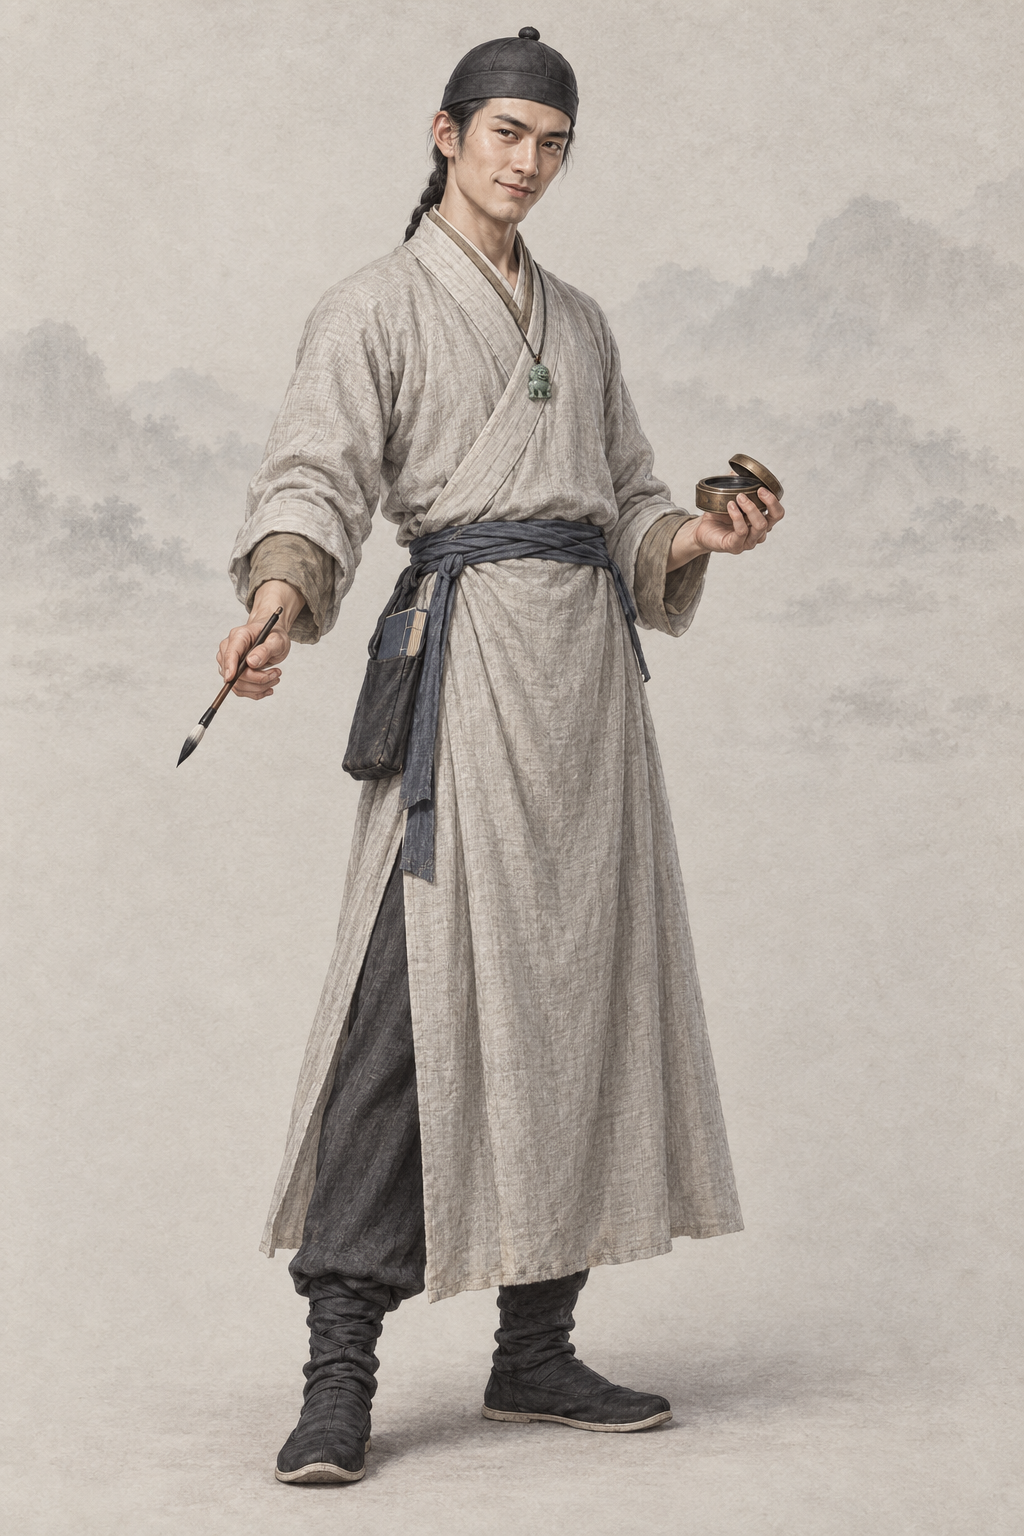
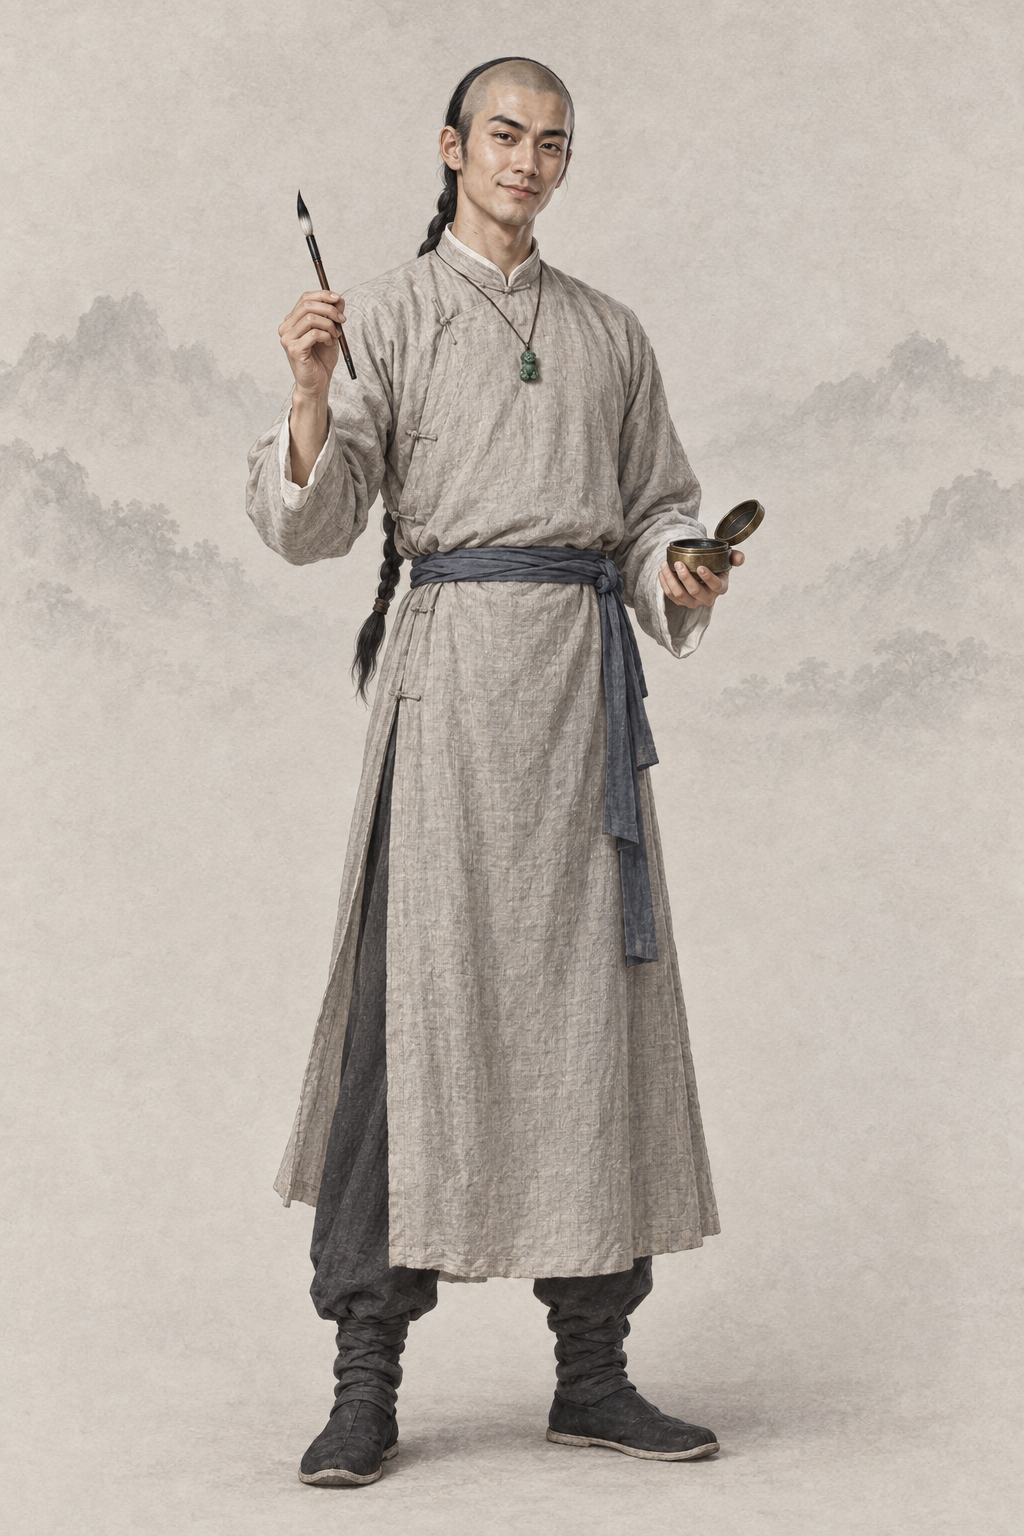
assets(character): por_npc_yuanguannan__ch11_youth_scholar_base 袁冠南（codex · AR-32 文字 + 基线）
本人无可用剧照或可靠游戏头像，只用文字与两张同性别基线重出；提示词写回、frontmatter 加 classic_ref。

diff --git a/assets/default/prompts/characters/ch11-yuanyang/npc_yuanguannan.md b/assets/default/prompts/characters/ch11-yuanyang/npc_yuanguannan.md
@@ -13,14 +13,37 @@ references:
   use: 已实际查看的项目男性画风参考，仅取水墨笔触、低饱和设色、暖浅灰纸底与左上柔光；基线当前candidate，按作者本轮授权使用且不更改审批，不继承萧峰的旧脸、年龄体型、裹巾衣装或密集摄影布纹。
 status: redo
 redo_reason: "脸是与程墨、鲁忱等同款的偶像化俊男模板，缺「长脸俊目、剑眉斜飞」的书生机智辨识度；服饰与笔墨道具设计保留，改脸去 AI 味。"
+codex_prompt_rev: 2026-10-02
 reference_upload:
 - assets/default/baseline/character/male/ref_npc_linghuchong__ch05_base01.png
-codex_prompt_rev: 2026-10-02
+- assets/default/baseline/character/male/ref_npc_xiaofeng__ch01_base01.png
+classic_ref: "无（作者 10-02 指定鸳鸯刀用《金庸群侠传》头像；游戏里没有可靠的袁冠南头像，只用文字与基线）"
 ---
 
 # 袁冠南 · 《鸳鸯刀》（ch11）
 
 ## Gemini 提示词
+
+> 2026-10-02 AR-32 重出（8 号出图员，codex exec · image_gen）：本人没有可用的经典剧照或可靠游戏头像，只用文字与两张同性别画风基线（缩小版 JPEG，放在最后上传）；按原著与设定重写人物描写，去 AI 味、禁止幼态。上一版保留在下一节作历史。
+
+```text
+生成一张 2:3 竖幅全身人物立绘：单人、单一视角、完整全身——头顶、双手、双脚和手中器物的两端都在画面内，四周留出自然空白；人物站姿自然，身体基本朝向正面，头部端正（不歪头、不仰不俯），镜头平视。
+【参考图】随提示词上传的两张参考图都是本项目的立绘画风基线：画风、用色、光线、质感和暖浅灰纸底加淡水墨背景以它们为准；它们只管画风，不取长相、年龄、发型、服饰和姿势。人物的长相和造型完全按下面的文字来画。
+【画风】写实手绘古风人物插画，与本项目写实武侠角色立绘同一画风，像功力深厚的画师用细腻笔触画出的真实人物。手绘插画质感，不是 CG 渲染：不要过度光滑的皮肤、完美对称的五官、塑料高光、过度锐利的发丝；保留自然的笔触和细微不完美。皮肤有真实质感——细小毛孔、细纹、晒痕和自然的左右不对称，不磨皮、不油亮；头发是一缕缕自然的发丝和少量碎发；布料看得出经纬纹理、厚薄和自然垂坠的褶皱，带穿用过的轻微旧化，但完整不破烂；整体设色低饱和、沉稳；柔和的自然光从左上方照来，明暗过渡自然，不打舞台光、轮廓光或美颜柔光。不是照片，不是三维渲染，不是动漫或游戏 CG，也不是油画（没有厚涂笔触和画布纹理）。
+【背景】不透明的暖浅灰色纸底，只在远处有极淡的水墨远山和薄雾，大面积留白；人物与背景明暗分明、轮廓边缘干净完整（后续要自动抠图），水墨和纸纹只在背景里，不侵入人物和衣服；脚下只有很淡的一点接触阴影。
+【人物】袁冠南，金庸《鸳鸯刀》的男主角，袁氏遗孤，会武功的青年书生；正处在用笔墨和口才戏弄强敌的那一段，还没学夫妻刀法（清代，乾隆初年）。
+【年龄与体态】二十二三岁的成年男子，身形修长清瘦但肩背挺直，有练过武的筋骨。
+【经典造型】风趣机智的青年书生侠客：清式长衫、一手毛笔一手小铜墨盒，剑眉斜飞、眼带狡黠笑意；英俊潇洒，书卷气里透着侠气。
+【面容】长脸俊目：二十二三岁的年轻面孔，脸型偏长、轮廓清爽、下颌线利落，皮肤紧致干净（没有中年人的皱纹）；两道浓黑的剑眉斜飞入鬓；眼睛细长明亮、眼神机灵，带着狡黠的笑意；鼻梁高挺；嘴角上扬、似笑非笑，透着书生的风趣和自信；肤色是干净的浅麦色。英俊潇洒、让人一看就有好感的青年书生，不是偶像小生的模板脸，也不显老。
+【发式】清代男子发式：前额和头顶前半部剃净、露出淡淡青色的头皮（干净哑光，不要油亮反光），后脑头发编成一条乌黑粗长的辫子垂在背后；不戴帽子。
+【服饰】浅米灰色细布长衫（清式：圆领、大襟右衽，衣襟从领口斜到右腋下，用布纽扣系住），袖口窄而略长；腰系靛青布带；墨色长裤，黑色平底布鞋；颈前细绳挂一只小小的翡翠狮子坠。衣边完整，只有少许旅途风尘。
+【道具】右手握一支蘸了墨的毛笔，左手托着一只打开盖子的小铜墨盒；腰间不佩刀剑。
+【姿态与神情】身体正面朝前，站姿潇洒随意，笑吟吟地看着前方，像刚说完一句俏皮话。
+【不要】画面里不要任何文字、题款、印章、签名、水印、边框、分格或多视图；不要第二个人；不要幼态（童颜、娃娃脸、婴儿肥、儿童或少年身材、大头小身）；不要塑料感皮肤、磨皮美颜、网红脸（尖下巴大眼高鼻的模板脸）、过度对称、浓妆、偶像式打光、蜡像感；不要照片质感、三维渲染或动漫大眼；不要歪头、斜镜头；不要多指、缺指（设定的伤残除外）、手与器物粘连或悬空；衣襟必须右衽（穿着者的左襟压在右襟上），不要左衽（设定为少数民族服制的除外），不要水平镜像；不要现代物品、发光特效、法阵或能量光。不要汉式交领宽袖袍和明代网巾（这是清代）；不要偶像化的模板俊脸；不要佩刀或持双刀；不要把辫子盘在头顶。
+【画风基线】随提示词上传的参考图里，最后两张是本项目的立绘画风基线：只参考它们的画风、用色、光线、质感和暖浅灰纸底加淡水墨的背景处理，整体画风必须与它们一致——精细写实的数字手绘插画，不是油画，不要厚涂笔触和画布纹理。基线图只取画风，不取长相：不要照搬基线图里人物的长相、年龄、发型、服饰和姿势。
+```
+
+## AR-31 文字版 Gemini 提示词（2026-10-02 凌晨；AR-32 重出之前，历史，不再用于出图）
 
 > 2026-10-02 Codex 人物线 2 号（AR-31）：在审核组稿上补一行「经典形象」（借鉴公认经典造型的发式、装束、配色、标志道具与气质，只写文字，不写演员名、不上传剧照），并补去 AI 化要求。本轮出图用下面第一个代码块；审核组原稿保留在其后的「审核组原稿」小节作历史。
 
